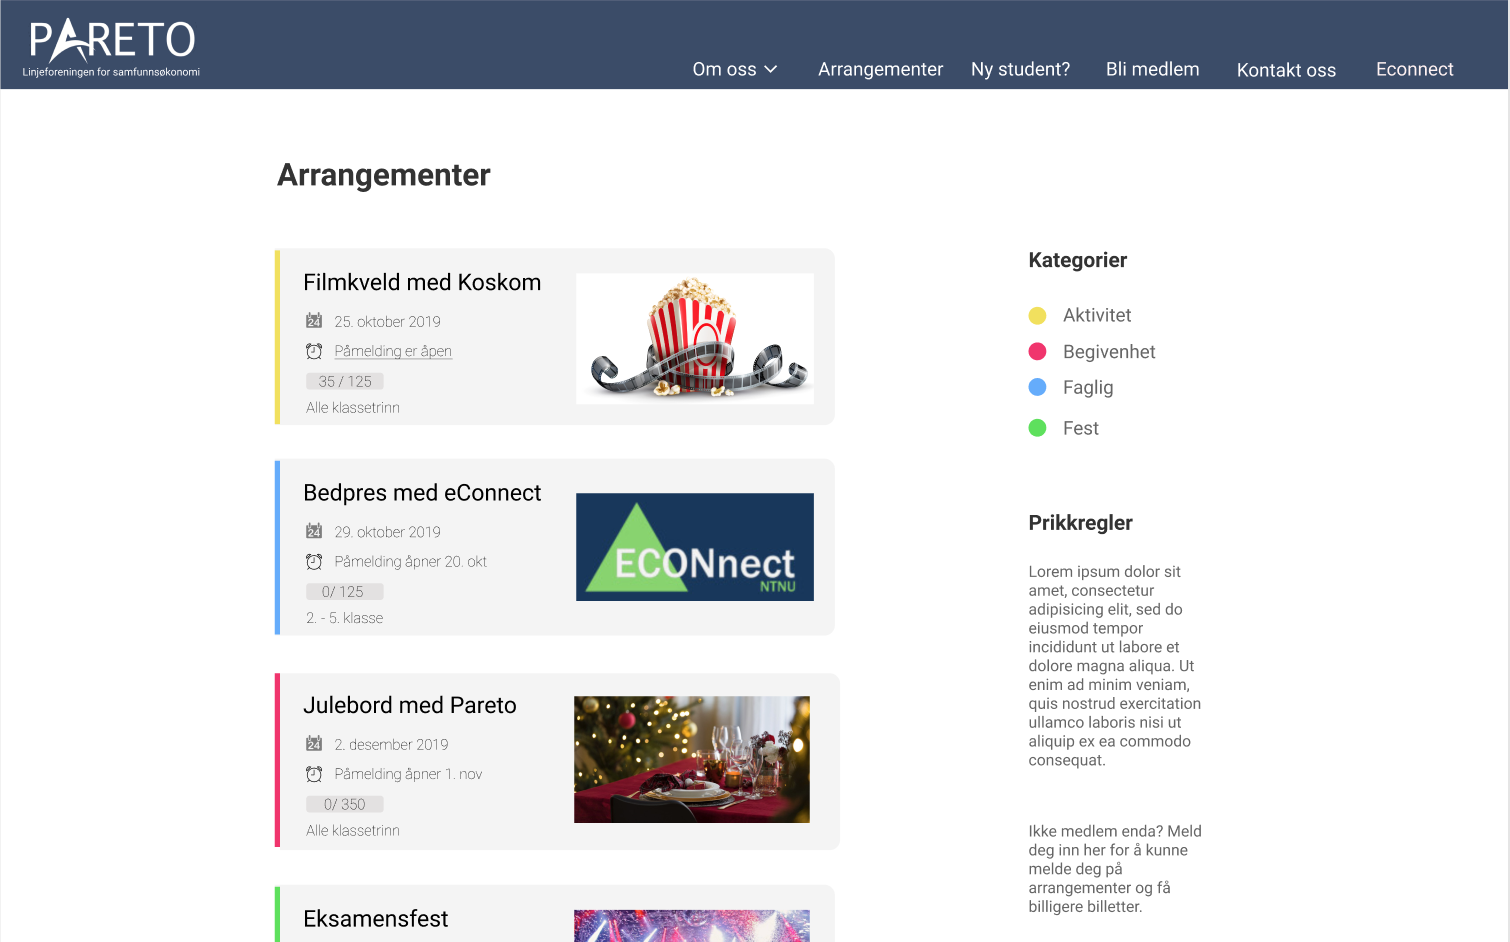
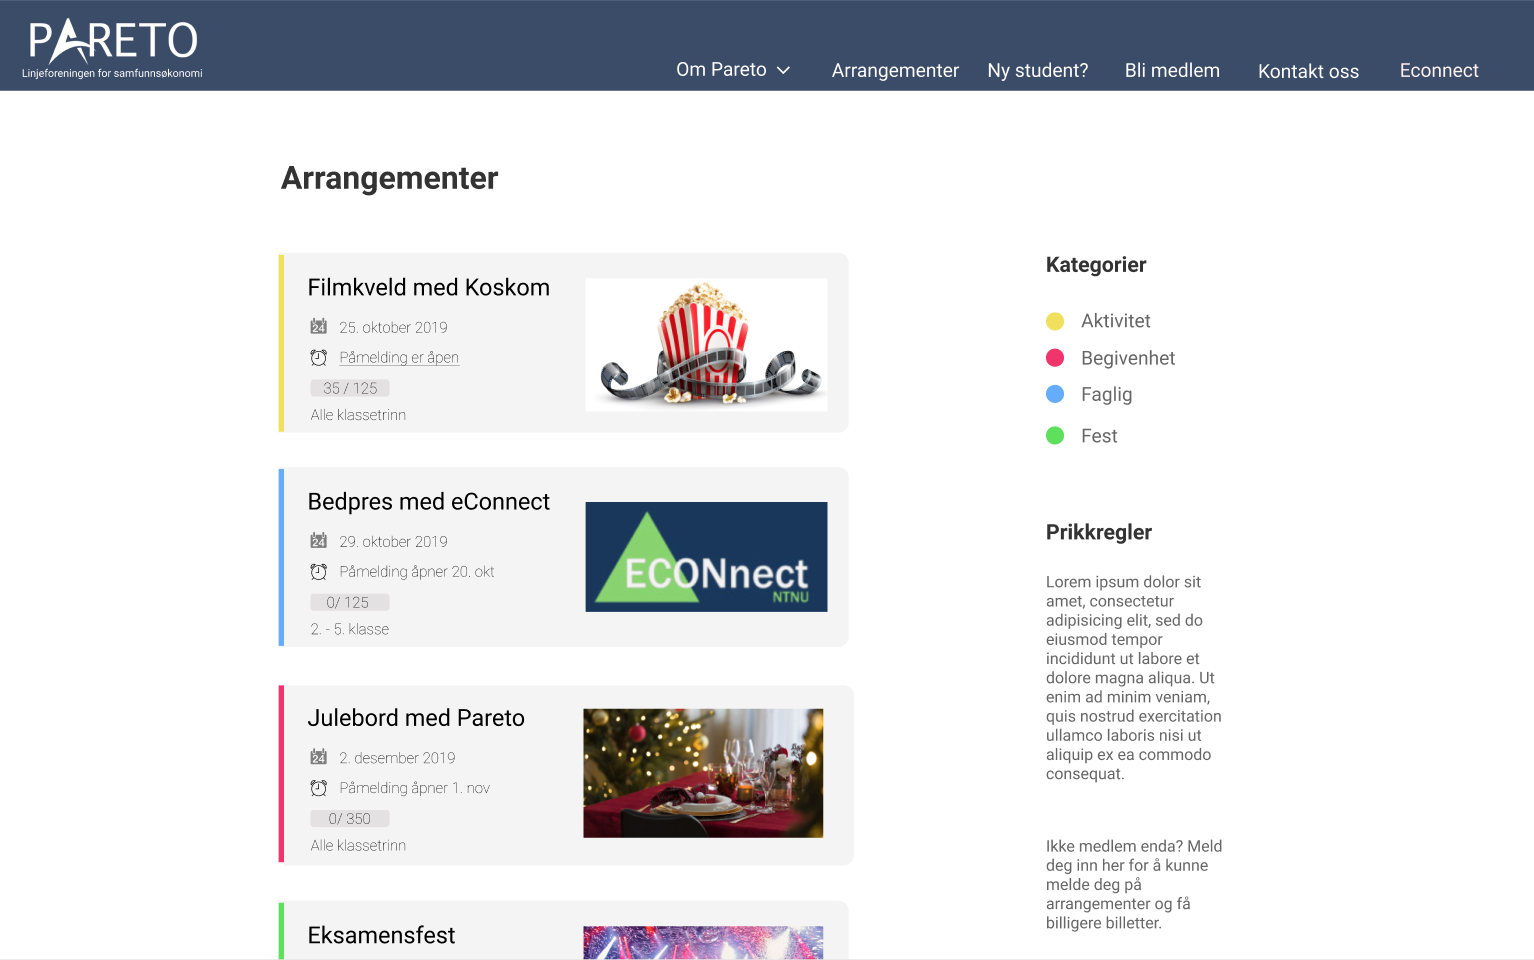
endret bildestørrlse og endret fra om_oss til om_pareto

diff --git a/Documents/P2_design_28.html b/Documents/P2_design_28.html
@@ -142,10 +142,10 @@ hvilket punkt fra oppgaven vi skriver om.-->
         <li>
           <b>index.html</b>
           <p>
-            Forside som er det første besøkende vil se. Siden det vil variere hvilken informasjon 
+            Forside som er det første besøkende vil se. Siden det vil variere hvilken informasjon
             de besøkende i målgruppen er ute etter, så vil det ikke være noe spesifikk informasjon her i utgangspunktet
             , men dette vil være lett tilgjengelig fra navbaren øverst på siden. Under navbar/header vil det være
-            bildeslideshow som vil bestå av bilder som linjeforeningen vil skal være førsteinntrykket for de 
+            bildeslideshow som vil bestå av bilder som linjeforeningen vil skal være førsteinntrykket for de
             besøkende i målgruppen.
           </p>
 
@@ -169,6 +169,7 @@ hvilket punkt fra oppgaven vi skriver om.-->
 
         </li>
 
+        <br>
         <li>
           <b>om_pareto.html</b>
           <p>
@@ -182,7 +183,7 @@ hvilket punkt fra oppgaven vi skriver om.-->
             heltrukken kant, er størrelse 100 x 100 px og har avrundede hjørner med radius 12.
           </p>
 
-          <img src="../img/OmPareto.png" alt='Bilde av hvordan siden "Om Pareto" skal være'>
+          <img src="../img/OmPareto.png" class="side" alt='Bilde av hvordan siden "Om Pareto" skal være'>
 
           <br>
         </li>
@@ -233,7 +234,7 @@ hvilket punkt fra oppgaven vi skriver om.-->
             informasjon om hvor han skal betale til.
           </p>
 
-          <img src="../img/BliMedlem.png" alt='Bilde av hvordan siden "Arrangementer" skal være'>
+          <img src="../img/BliMedlem.png" class="side" alt='Bilde av hvordan siden "Arrangementer" skal være'>
 
           <br>
         </li>
@@ -310,7 +311,7 @@ hvilket punkt fra oppgaven vi skriver om.-->
             arrangementer.
           </p>
 
-          <img src="../img/Arrangementer.png" alt='Bilde av hvordan siden "Arrangementer" skal være'>
+          <img src="../img/Arrangementer.png" class="side" alt='Bilde av hvordan siden "Arrangementer" skal være'>
 
           <br>
         </li>
@@ -377,14 +378,14 @@ hvilket punkt fra oppgaven vi skriver om.-->
         Vi vil oppfylle kravet med fire forskjellige Javascript-applikasjoner på følgende måte:
       </p>
       <ul>
-        <li>Slideshow i index.html som skal rullere med fast intervall og animert overgang. Vil også gjøre det mulig for bruker å bla 
-          frem å tilbake i denne, ved hjelp av transparente piler på høyre og venstre side som blir synlig når brukeren hoverer 
+        <li>Slideshow i index.html som skal rullere med fast intervall og animert overgang. Vil også gjøre det mulig for bruker å bla
+          frem å tilbake i denne, ved hjelp av transparente piler på høyre og venstre side som blir synlig når brukeren hoverer
           over slideshowet. Kristine er ansvarlig.</li>
         <li>
           Scrollup/rollup-knapp nederst i footer som tar deg til toppen av siden. Dette vil være animert, i motsetning til ikke øyeblikkelig
           for å unngå at overgangen blir for brå. Frida er ansvarlig.</li>
         <li>
-          Skjemavalidering for kontakt.html og bli_medlem.html, som skal se til at alle felter (navn, emne, epost, melding osv) er fylt ut, 
+          Skjemavalidering for kontakt.html og bli_medlem.html, som skal se til at alle felter (navn, emne, epost, melding osv) er fylt ut,
           og at epostadresse er gyldig. Bjørn Are og Ingrid er ansvarlig.
         </li>
         <li>
@@ -394,7 +395,7 @@ hvilket punkt fra oppgaven vi skriver om.-->
       </ul>
       <p>
         Hver av punktene har ansvarlig(e) person(er) for implementeringen, men ved behov så vil også de resterende på gruppen
-        hjelpe til på de ulike applikasjonene. 
+        hjelpe til på de ulike applikasjonene.
       </p>
     </div>
 
@@ -477,7 +478,7 @@ hvilket punkt fra oppgaven vi skriver om.-->
               </tr>
 
               <tr>
-                <td>om_oss.html</td>
+                <td>om_pareto.html</td>
                 <td>Hvem linjeforeningen er og hva de gjør</td>
                 <td>Ingrid</td>
                 <td>26/10/19</td>
